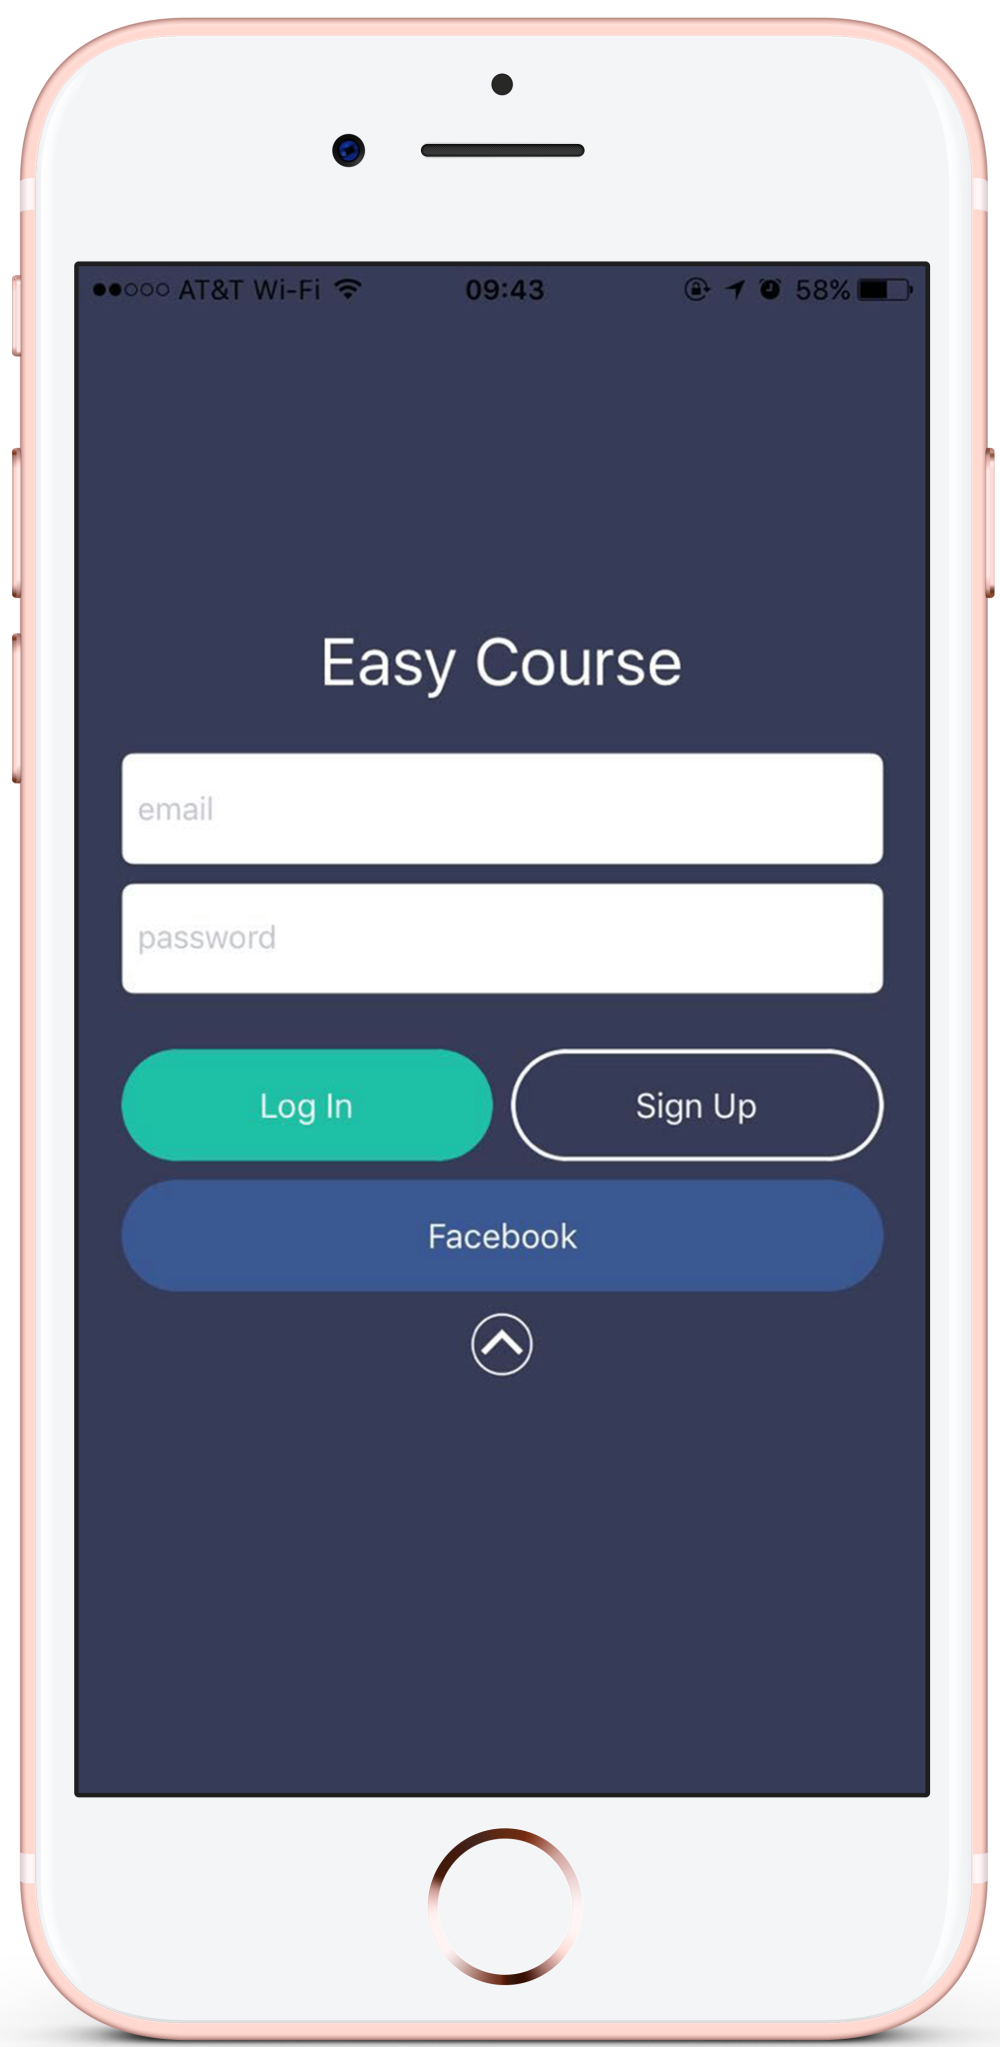
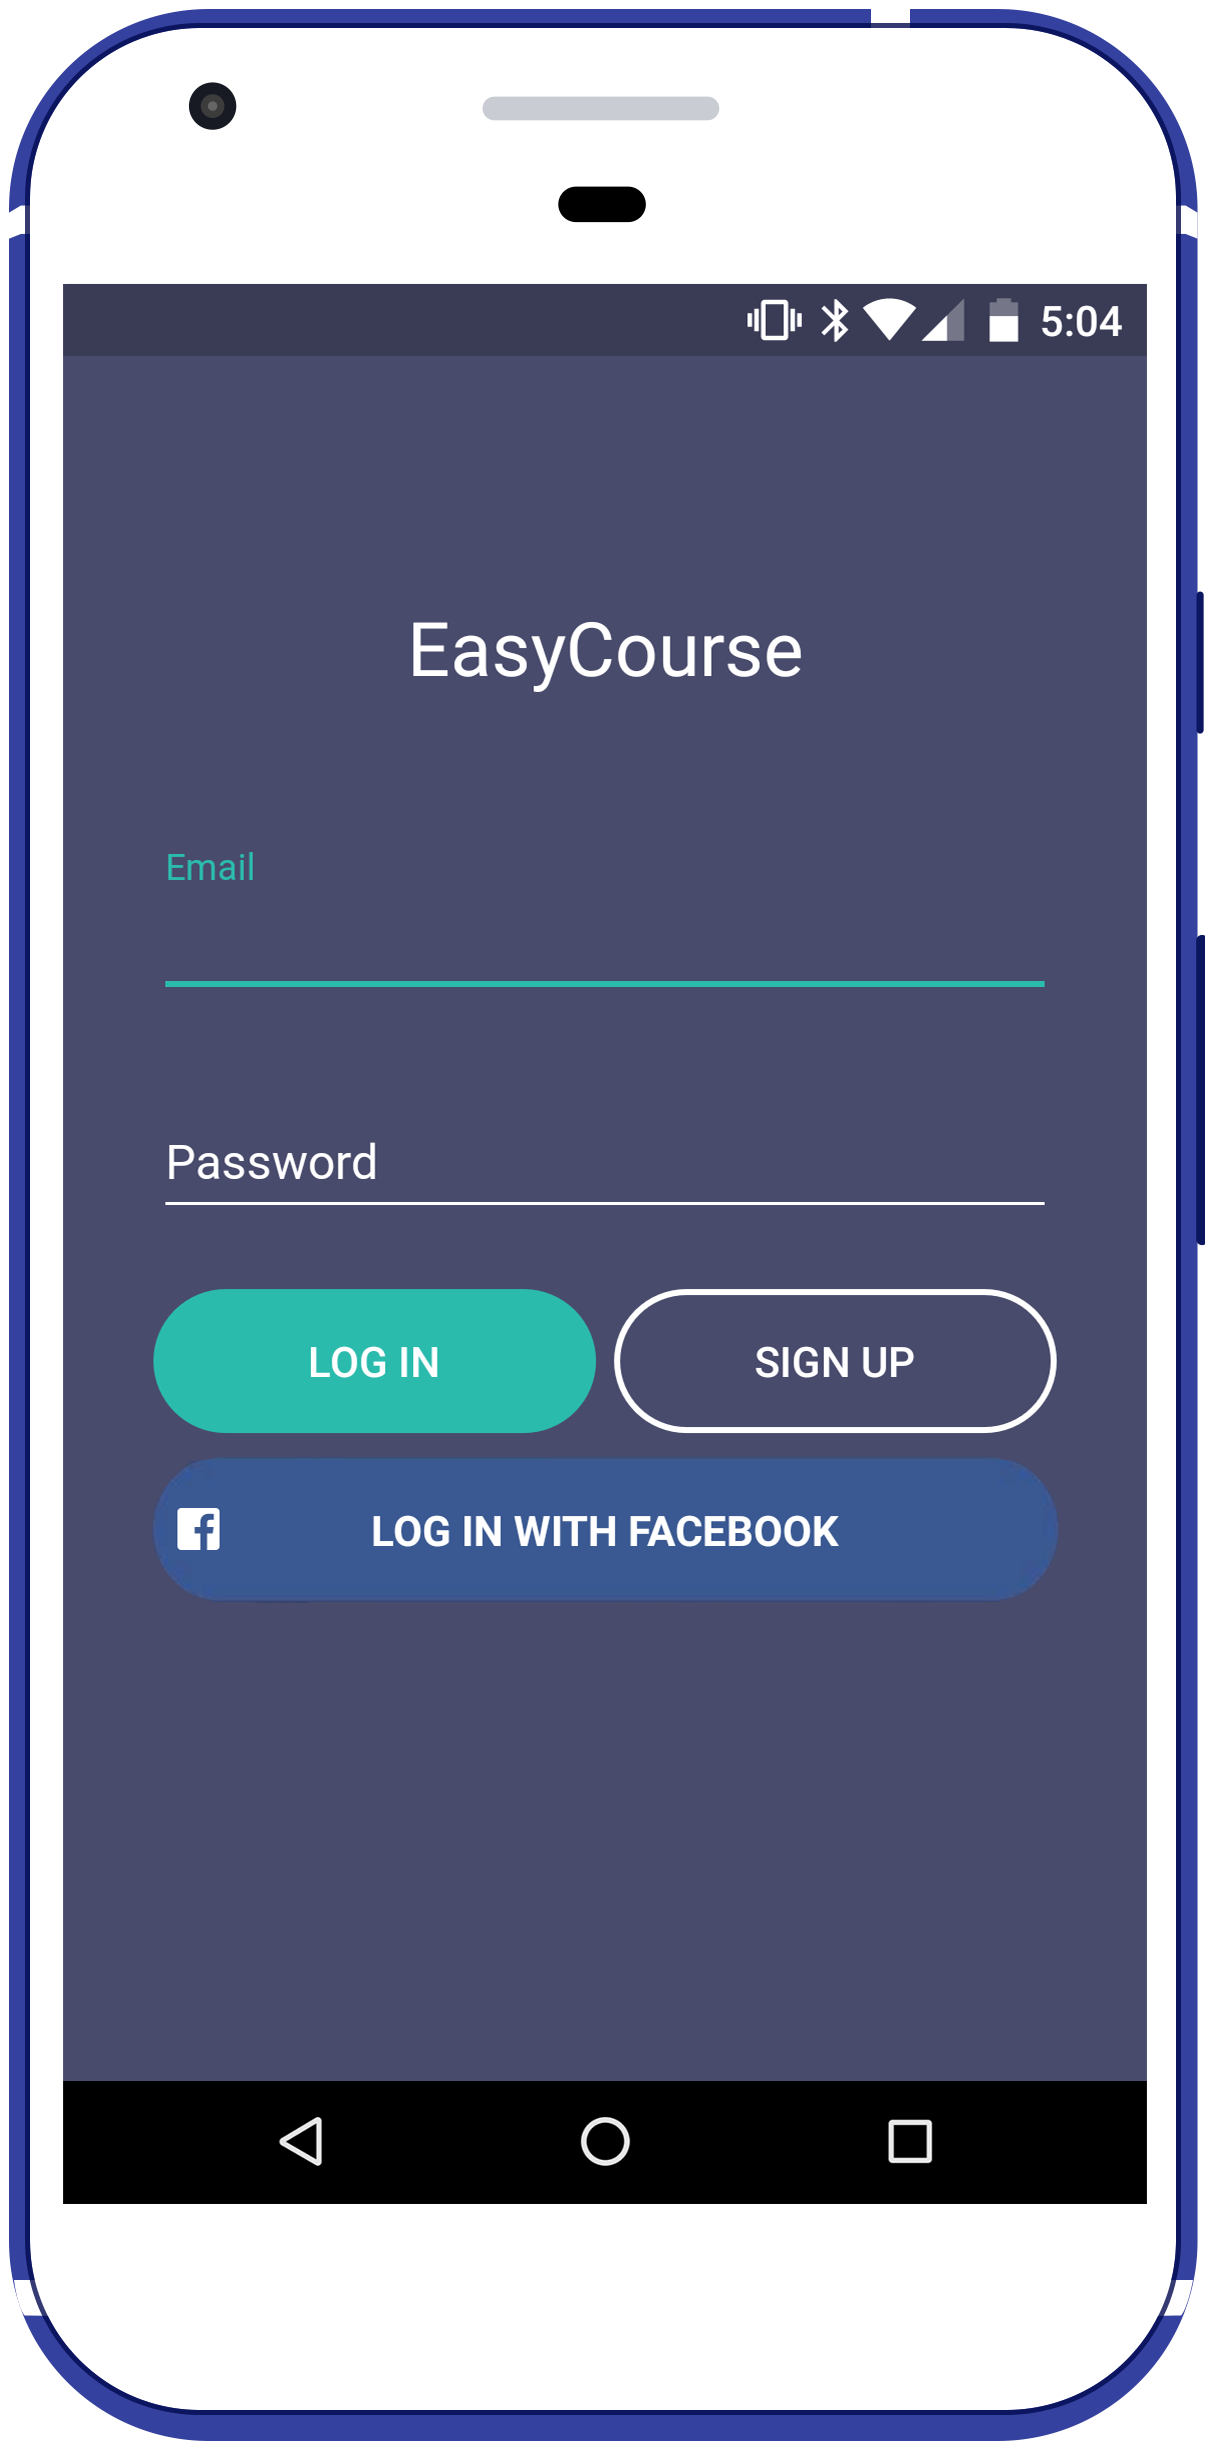
Cleaned up some code and added Android phones into public page

diff --git a/app/jsx/components/navBar.jsx b/app/jsx/components/navBar.jsx
@@ -22,10 +22,15 @@ export default class NavBar extends Component {
             <Navbar.Collapse>
               <Nav pullRight>
                 <LinkContainer to="/">
-                  <NavItem className="NavbarLinks" eventKey={1}>Home</NavItem>
+                  <NavItem className="NavbarLinks">Home</NavItem>
                 </LinkContainer>
-
-                <NavItem className="NavbarLinks" eventKey={4} href="https://goo.gl/forms/Ny7oCjYQ9gCI6GrE2" target="_blank">Join Us</NavItem>
+                <LinkContainer to="/login">
+                  <NavItem className="NavbarLinks">Log In</NavItem>
+                </LinkContainer>
+                <LinkContainer to="/signup">
+                  <NavItem className="NavbarLinks">Sign Up</NavItem>
+                </LinkContainer>
+                <NavItem className="NavbarLinks" href="https://goo.gl/forms/Ny7oCjYQ9gCI6GrE2" target="_blank">Join Us</NavItem>
               </Nav>
             </Navbar.Collapse>
           </Col>

diff --git a/app/App.jsx b/app/App.jsx
@@ -5,18 +5,11 @@ import thunkMiddleware, { Provider } from 'react-redux';
 import { Public, Home } from 'jsx';
 import { NavBar, Footer } from 'components';
 import rootReducer from 'jsx/redux/reducers';
-// import thunkMiddleware from 'redux-thunk';
-// import api from './utils/api';
 import './css/index.css'; // Importing all the CSS files
 
-// let createStoreWithMiddleware = applyMiddleware(thunkMiddleware, api)(createStore);
-// let store = createStoreWithMiddleware(rootReducer);
 
 
 class App extends Component {
-  // static propTypes = {
-  //   isLoggedIn: PT.bool.isRequired
-  // };
 
   render() {
     return (
@@ -30,9 +23,6 @@ class App extends Component {
 }
 
 ReactDOM.render(
-  // <Provider store={store}>
-  //   <App />
-  // </Provider>
   <App />
   ,
   document.getElementById('root')
